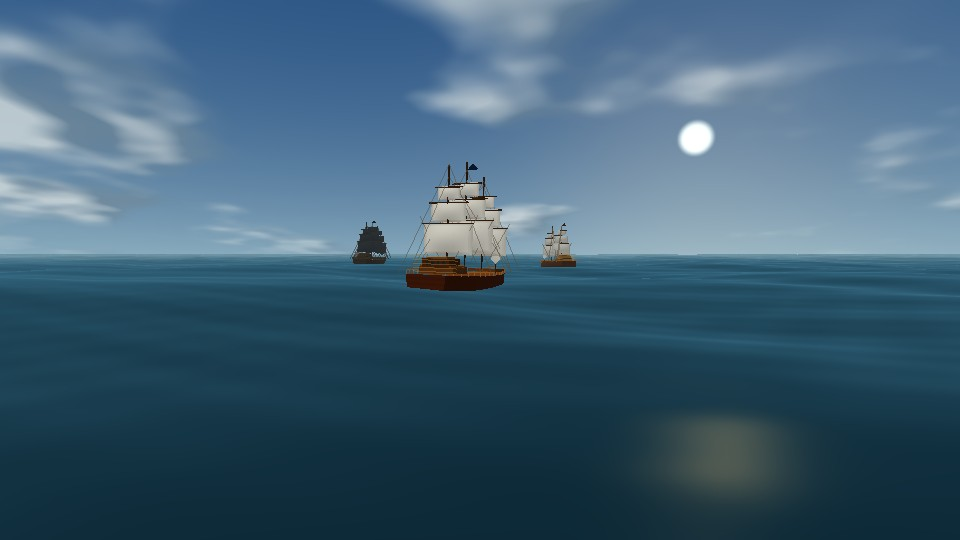
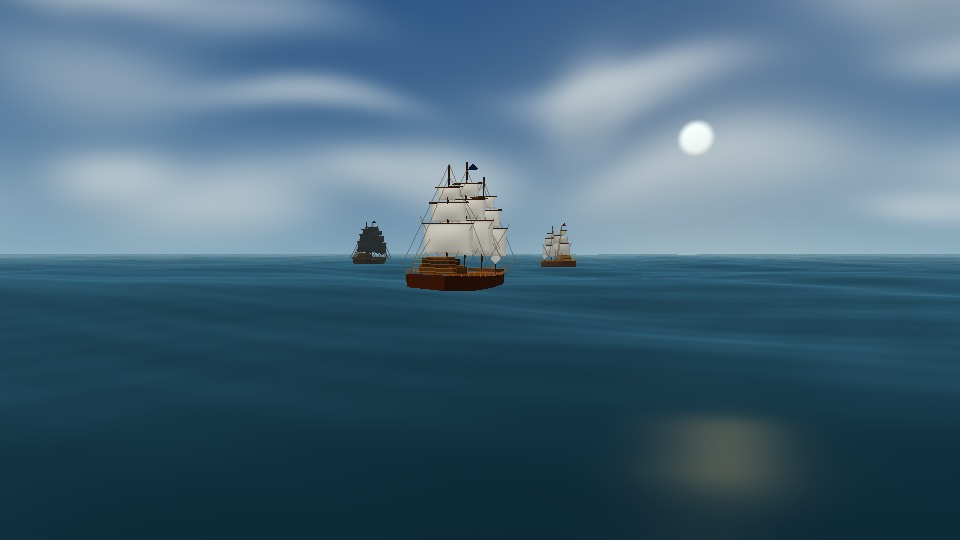
Restore sea exploration, soften smoky sky and use official Avito contact

Changed region(s): [[0.0, 0.0, 0.9062, 0.4741], [0.8125, 0.0, 1.0, 0.1778], [0.9062, 0.237, 1.0, 0.4148]]

diff --git a/themes/living-sea.js b/themes/living-sea.js
@@ -1,4 +1,4 @@
-import { createSeaMotion, shipHullGeometry, shipDeckGeometry, shipRailGeometry } from "./sea-motion.mjs";
+import { createSeaMotion, shipHullGeometry, shipDeckGeometry, shipRailGeometry } from "./sea-motion.mjs?v=20261005-sea12";
 
 const TAU=Math.PI*2;
 const clamp=(v,a=0,b=1)=>Math.max(a,Math.min(b,v));
@@ -28,15 +28,31 @@ function stateAt(time){
 }
 
 const SKY_VS=`#version 300 es
-in vec2 aPosition;out vec2 vUv;void main(){vUv=aPosition*.5+.5;gl_Position=vec4(aPosition,0.,1.);}
+layout(location=0)in vec2 aPosition;out highp vec2 vUv;void main(){vUv=aPosition*.5+.5;gl_Position=vec4(aPosition,0.,1.);}
 `;
 const SKY_FS=`#version 300 es
 precision highp float;
-in vec2 vUv;out vec4 outColor;
+in highp vec2 vUv;out vec4 outColor;
 uniform float uTime,uAspect,uDay,uSunset,uNight,uStorm,uFog,uLightning,uPitch,uYaw;
-float hash(vec2 p){p=fract(p*vec2(123.34,345.45));p+=dot(p,p+34.345);return fract(p.x*p.y);}
-float noise(vec2 p){vec2 i=floor(p),f=fract(p);f=f*f*f*(f*(f*6.-15.)+10.);return mix(mix(hash(i),hash(i+vec2(1,0)),f.x),mix(hash(i+vec2(0,1)),hash(i+1.),f.x),f.y);}
-float fbm(vec2 p){float v=0.,a=.53;mat2 r=mat2(.8,-.6,.6,.8);for(int i=0;i<4;i++){v+=a*noise(p);p=r*p*2.03+vec2(13.7,9.2);a*=.49;}return v;}
+// Continuous smoke puffs: no tessellated cloud mesh, hash cells or projected grid.
+// Analytic soft density also avoids mobile GPU noise precision artefacts.
+vec2 smoke(vec2 p){
+  p+=vec2(sin(p.y*11.+uTime*.017),cos(p.x*9.-uTime*.012))*.024;
+  float density=0.,shade=0.;
+  for(int i=0;i<22;i++){
+    float s=float(i)+1.;
+    vec2 center=vec2(sin(s*2.19)*.78,.13+(sin(s*.91)*.5+.5)*.31);
+    center.x+=sin(uTime*.014+s*.7)*.11;
+    center.y+=sin(uTime*.009+s)*.012;
+    vec2 radius=vec2(.07+(sin(s*.47)*.5+.5)*.12,.025+(cos(s*1.31)*.5+.5)*.050);
+    radius*=1.+uStorm*.48;
+    vec2 d=(p-center)/radius;
+    density+=exp(-dot(d,d)*1.6)*(.70+.26*sin(s*.73));
+    vec2 under=(p-center+vec2(.009,.035))/radius;
+    shade+=exp(-dot(under,under)*1.7)*.30;
+  }
+  return vec2(1.-exp(-density*(1.4+uStorm*1.8)),clamp(shade,0.,1.));
+}
 void main(){
   vec3 rd=normalize(vec3((vUv.x-.5)*uAspect+uYaw,(vUv.y-.5)+uPitch,-1.));
   float h=max(rd.y,0.),sunHeight=mix(.28,.045,uSunset);
@@ -52,22 +68,14 @@ void main(){
   col+=vec3(1.,.65,.31)*pow(sunDot,22.)*(.16+.32*uSunset)*(1.-uNight)*(1.-uStorm);
   col+=vec3(1.,.90,.69)*smoothstep(.9995,.99985,sunDot)*(1.-uNight)*(1.-uStorm)*.66;
 
-  // Project two wind-blown cloud layers onto the sky, with lit edges and shadowed thickness.
-  vec2 q=rd.xz/(max(rd.y,.025)+.15)*1.15;
-  q+=vec2(uTime*.010*(1.+uStorm),uTime*.002);
-  float shape=fbm(q),detail=fbm(q*2.1+vec2(17.1,3.7));
-  float density=smoothstep(mix(.51,.32,uStorm),mix(.73,.60,uStorm),shape*.83+detail*.17);
-  float upper=fbm(q+vec2(-.17,.10));
-  float edge=clamp((shape-upper)*5.+.45,.08,.94);
-  vec3 shade=mix(vec3(.45,.56,.64),vec3(.12,.16,.19),uStorm);
+  vec2 vapour=smoke(vec2(atan(rd.x,-rd.z),rd.y));
+  vec3 shade=mix(vec3(.50,.60,.67),vec3(.12,.16,.19),uStorm);
   vec3 lit=mix(vec3(.96,.97,.95),vec3(.49,.54,.56),uStorm);
   lit=mix(lit,vec3(1.,.69,.43),uSunset*.65);
-  vec3 cloud=mix(shade,lit,edge);
+  vec3 cloud=mix(lit,shade,vapour.y*.70);
   cloud*=mix(1.,.20,uNight);
   float aerial=smoothstep(.012,.14,h);
-  col=mix(col,cloud,density*aerial*mix(.72,.94,uStorm));
-  float cirrus=smoothstep(.64,.82,fbm(q*.55+vec2(2.3,-7.)))*smoothstep(.12,.65,h);
-  col=mix(col,lit,cirrus*.14*(1.-uStorm));
+  col=mix(col,cloud,vapour.x*aerial*mix(.78,.94,uStorm));
   col=mix(col,horizon,exp(-h*28.)*(.13+.52*uFog));
   col+=vec3(.82,.91,1.)*uLightning*.16;
   outColor=vec4(col,1.);
@@ -88,7 +96,7 @@ function oceanGeometry(cols=104,rows=180){
 const OCEAN_VS=`#version 300 es
 layout(location=0) in vec2 aPosition;
 uniform mat4 uViewProj;
-uniform float uTime,uCameraZ,uWave,uStorm;
+uniform float uTime,uCameraX,uCameraZ,uWave,uStorm;
 out vec3 vWorld,vNormal;
 void W(inout vec3 p,inout vec3 tx,inout vec3 tz,vec2 d,float amp,float freq,float speed,float steep){
   d=normalize(d);float ph=dot(d,p.xz)*freq+uTime*speed,a=amp*uWave;
@@ -98,7 +106,7 @@ void W(inout vec3 p,inout vec3 tx,inout vec3 tz,vec2 d,float amp,float freq,floa
   p+=vec3(d.x*steep*a*cos(ph),a*sin(ph),d.y*steep*a*cos(ph));
 }
 void main(){
-  vec3 p=vec3(aPosition.x,0.,aPosition.y+uCameraZ),tx=vec3(1,0,0),tz=vec3(0,0,1);
+  vec3 p=vec3(aPosition.x+uCameraX,0.,aPosition.y+uCameraZ),tx=vec3(1,0,0),tz=vec3(0,0,1);
   W(p,tx,tz,vec2(1.,.22),.78,.023,.62,.43);
   W(p,tx,tz,vec2(.31,1.),.48,.043,-.84,.31);
   W(p,tx,tz,vec2(-.72,.43),.30,.074,1.13,.23);
@@ -454,7 +462,7 @@ function atmosphere(){
   }));
 
   return{draw(ctx,time,w,h,c){
-    const horizon=h*.435;
+    const horizon=h*(c.horizon??.435);
 
     // Layered smoky clouds travel from the horizon toward the viewer.
     ctx.save();
@@ -550,7 +558,7 @@ function soundscape(){
 }
 
 function fallback(ctx){
-  const air=atmosphere();
+  const air=atmosphere(),motion=createSeaMotion();
   const color=(a,b,t)=>a.map((n,i)=>mix(n,b[i],t));
   const rgb=a=>`rgb(${a.map(n=>Math.round(n)).join(",")})`;
   const ships=[{x:.30,z:.045,s:.58},{x:.60,z:.018,s:.39},{x:.79,z:.075,s:.94}];
@@ -580,8 +588,9 @@ function fallback(ctx){
     ctx.fillStyle=c.night>.5?"#43566e":"#69494b";ctx.beginPath();ctx.moveTo(1,-175);ctx.quadraticCurveTo(15,-185,26,-177+Math.sin(t*3)*3);ctx.lineTo(3,-166);ctx.closePath();ctx.fill();ctx.restore();
   }
   return{resize(){},draw({time,width:w,height:h,camera}){
-    const c=stateAt(time),cy=clamp(camera?.y||0,-.55,.55),cx=camera?.x||0;
-    const horizon=h*(.435+cy*.055);
+    const c=stateAt(time),pose=motion.step(time,camera,c),cx=pose.input.x;
+    const elevation=Math.max(0,pose.eye[1]-6.2-(1.775+3.16*c.storm)*c.wave);
+    const horizon=h*(.435-Math.min(.17,elevation*.0018));
     const top=color(color([32,105,157],[7,15,33],c.night),[25,39,48],c.storm*.9);
     const edge=color(color(color([190,212,215],[32,46,63],c.night),[105,111,111],c.storm*.82),[225,149,96],c.sunset*.54);
     const sky=ctx.createLinearGradient(0,0,0,horizon);sky.addColorStop(0,rgb(top));sky.addColorStop(1,rgb(edge));ctx.fillStyle=sky;ctx.fillRect(0,0,w,h);
@@ -599,11 +608,14 @@ function fallback(ctx){
       ctx.lineTo(w+24,h+24);ctx.closePath();ctx.fill();
     }
     for(const [i,p] of ships.entries()){
-      const size=Math.min(w,h)*.00185*p.s,px=w*(p.x-cx*.035),py=horizon+h*p.z+Math.sin(time*.78+i)*(.7+c.storm*2.4);
+      const distance=[290,365,145][i]+pose.eye[2]-pose.routeZ;
+      if(distance<18)continue;
+      const zoom=([290,365,145][i]+18)/distance;
+      const size=Math.min(w,h)*.00185*p.s*zoom,px=w*(.5+(p.x-.5)*zoom-pose.eye[0]/distance*.8),py=horizon+h*p.z*zoom+elevation/distance*h*.7+Math.sin(time*.78+i)*(.7+c.storm*2.4);
       ship(px,py,size,time,c,i);
       const wake=ctx.createLinearGradient(0,py+size*18,0,py+size*48);wake.addColorStop(0,"rgba(30,83,99,0)");wake.addColorStop(1,rgb(color(distant,deep,.14)));ctx.fillStyle=wake;ctx.beginPath();ctx.ellipse(px,py+size*38,size*88,size*14,0,0,TAU);ctx.fill();
     }
-    air.draw(ctx,time,w,h,c);
+    air.draw(ctx,time,w,h,{...c,horizon:horizon/h});
   },dispose(){}};
 }
 
@@ -626,7 +638,7 @@ function createRenderer(ctx){
   const P=new Float32Array(16),V=new Float32Array(16),VP=new Float32Array(16);let W=1,H=1,dead=false;
   const su={time:gl.getUniformLocation(skyP,"uTime"),aspect:gl.getUniformLocation(skyP,"uAspect"),day:gl.getUniformLocation(skyP,"uDay"),sunset:gl.getUniformLocation(skyP,"uSunset"),night:gl.getUniformLocation(skyP,"uNight"),storm:gl.getUniformLocation(skyP,"uStorm"),fog:gl.getUniformLocation(skyP,"uFog"),lightning:gl.getUniformLocation(skyP,"uLightning"),pitch:gl.getUniformLocation(skyP,"uPitch"),yaw:gl.getUniformLocation(skyP,"uYaw")};
   const uu=Object.fromEntries(["time","aspect","depth","night","storm"].map(k=>[k,gl.getUniformLocation(underP,"u"+k[0].toUpperCase()+k.slice(1))]));
-  const ou={vp:gl.getUniformLocation(oceanP,"uViewProj"),time:gl.getUniformLocation(oceanP,"uTime"),cameraZ:gl.getUniformLocation(oceanP,"uCameraZ"),wave:gl.getUniformLocation(oceanP,"uWave"),camera:gl.getUniformLocation(oceanP,"uCamera"),day:gl.getUniformLocation(oceanP,"uDay"),sunset:gl.getUniformLocation(oceanP,"uSunset"),night:gl.getUniformLocation(oceanP,"uNight"),storm:gl.getUniformLocation(oceanP,"uStorm"),fog:gl.getUniformLocation(oceanP,"uFog"),lightning:gl.getUniformLocation(oceanP,"uLightning")};
+  const ou={vp:gl.getUniformLocation(oceanP,"uViewProj"),time:gl.getUniformLocation(oceanP,"uTime"),cameraX:gl.getUniformLocation(oceanP,"uCameraX"),cameraZ:gl.getUniformLocation(oceanP,"uCameraZ"),wave:gl.getUniformLocation(oceanP,"uWave"),camera:gl.getUniformLocation(oceanP,"uCamera"),day:gl.getUniformLocation(oceanP,"uDay"),sunset:gl.getUniformLocation(oceanP,"uSunset"),night:gl.getUniformLocation(oceanP,"uNight"),storm:gl.getUniformLocation(oceanP,"uStorm"),fog:gl.getUniformLocation(oceanP,"uFog"),lightning:gl.getUniformLocation(oceanP,"uLightning")};
   const ju={vp:gl.getUniformLocation(objP,"uViewProj"),offset:gl.getUniformLocation(objP,"uOffset"),scale:gl.getUniformLocation(objP,"uScale"),rotation:gl.getUniformLocation(objP,"uRotation"),color:gl.getUniformLocation(objP,"uColor"),camera:gl.getUniformLocation(objP,"uCamera"),fogColor:gl.getUniformLocation(objP,"uFogColor"),night:gl.getUniformLocation(objP,"uNight"),storm:gl.getUniformLocation(objP,"uStorm"),fog:gl.getUniformLocation(objP,"uFog")};
   const au={vp:gl.getUniformLocation(sailP,"uViewProj"),offset:gl.getUniformLocation(sailP,"uOffset"),scale:gl.getUniformLocation(sailP,"uScale"),rotation:gl.getUniformLocation(sailP,"uRotation"),color:gl.getUniformLocation(sailP,"uColor"),camera:gl.getUniformLocation(sailP,"uCamera"),fogColor:gl.getUniformLocation(sailP,"uFogColor"),night:gl.getUniformLocation(sailP,"uNight"),storm:gl.getUniformLocation(sailP,"uStorm"),fog:gl.getUniformLocation(sailP,"uFog"),time:gl.getUniformLocation(sailP,"uTime"),wind:gl.getUniformLocation(sailP,"uWind"),phase:gl.getUniformLocation(sailP,"uPhase")};
   const lu={vp:gl.getUniformLocation(threadP,"uViewProj"),offset:gl.getUniformLocation(threadP,"uOffset"),scale:gl.getUniformLocation(threadP,"uScale"),rotation:gl.getUniformLocation(threadP,"uRotation"),color:gl.getUniformLocation(threadP,"uColor"),alpha:gl.getUniformLocation(threadP,"uAlpha"),night:gl.getUniformLocation(threadP,"uNight"),storm:gl.getUniformLocation(threadP,"uStorm"),fog:gl.getUniformLocation(threadP,"uFog"),time:gl.getUniformLocation(threadP,"uTime"),wind:gl.getUniformLocation(threadP,"uWind"),phase:gl.getUniformLocation(threadP,"uPhase"),flutter:gl.getUniformLocation(threadP,"uFlutter")};
@@ -735,15 +747,15 @@ function createRenderer(ctx){
 
   const motion=createSeaMotion();
   function render(t,camera,c){
-    const pose=motion.step(t,camera,c),{eye,target,camZ}=pose;
+    const pose=motion.step(t,camera,c),{eye,target,camZ,routeZ}=pose;
     const cx=pose.input.x;
     perspective(P,.94,W/H,.35,1700);lookAt(V,eye,target,[0,1,0]);multiply(VP,P,V);
-    gl.disable(gl.BLEND);gl.disable(gl.CULL_FACE);gl.disable(gl.DEPTH_TEST);gl.useProgram(skyP);gl.bindVertexArray(skyVao);gl.uniform1f(su.time,t);gl.uniform1f(su.aspect,W/H);setC(su,c);gl.uniform1f(su.pitch,(eye[1]-target[1])/Math.max(1,eye[2]-target[2]));gl.uniform1f(su.yaw,cx*.012);gl.drawArrays(gl.TRIANGLES,0,3);
-    gl.enable(gl.DEPTH_TEST);gl.clearDepth(1);gl.clear(gl.DEPTH_BUFFER_BIT);gl.useProgram(oceanP);gl.bindVertexArray(oceanVao);gl.uniformMatrix4fv(ou.vp,false,VP);gl.uniform1f(ou.time,t);gl.uniform1f(ou.cameraZ,camZ);gl.uniform1f(ou.wave,c.wave);gl.uniform3f(ou.camera,...eye);setC(ou,c);gl.drawElements(gl.TRIANGLES,ocean.indices.length,gl.UNSIGNED_INT,0);
-    const fog=[mix(.73,.22,c.storm),mix(.81,.27,c.storm),mix(.82,.28,c.storm)];fog[0]=mix(fog[0],.09,c.night);fog[1]=mix(fog[1],.13,c.night);fog[2]=mix(fog[2],.19,c.night);gl.enable(gl.CULL_FACE);ship(0,t,camZ,eye,fog,c);ship(1,t,camZ,eye,fog,c);ship(2,t,camZ,eye,fog,c);gl.disable(gl.CULL_FACE);
+    gl.disable(gl.BLEND);gl.disable(gl.CULL_FACE);gl.disable(gl.DEPTH_TEST);gl.useProgram(skyP);gl.bindVertexArray(skyVao);gl.uniform1f(su.time,t);gl.uniform1f(su.aspect,W/H);setC(su,c);gl.uniform1f(su.pitch,(eye[1]-target[1])/Math.max(1,eye[2]-target[2]));gl.uniform1f(su.yaw,(target[0]-eye[0])/148);gl.drawArrays(gl.TRIANGLES,0,3);
+    gl.enable(gl.DEPTH_TEST);gl.clearDepth(1);gl.clear(gl.DEPTH_BUFFER_BIT);gl.useProgram(oceanP);gl.bindVertexArray(oceanVao);gl.uniformMatrix4fv(ou.vp,false,VP);gl.uniform1f(ou.time,t);gl.uniform1f(ou.cameraX,eye[0]);gl.uniform1f(ou.cameraZ,camZ);gl.uniform1f(ou.wave,c.wave);gl.uniform3f(ou.camera,...eye);setC(ou,c);gl.drawElements(gl.TRIANGLES,ocean.indices.length,gl.UNSIGNED_INT,0);
+    const fog=[mix(.73,.22,c.storm),mix(.81,.27,c.storm),mix(.82,.28,c.storm)];fog[0]=mix(fog[0],.09,c.night);fog[1]=mix(fog[1],.13,c.night);fog[2]=mix(fog[2],.19,c.night);gl.enable(gl.CULL_FACE);ship(0,t,routeZ,eye,fog,c);ship(1,t,routeZ,eye,fog,c);ship(2,t,routeZ,eye,fog,c);gl.disable(gl.CULL_FACE);
     gl.bindVertexArray(null);
   }
   return{resize,draw({time,width,height,camera}){if(dead)return;if(width!==W||height!==H)resize({width,height,ratio:devicePixelRatio||1});const c=stateAt(time);render(time,camera,c);fx.draw(ctx,time,width,height,{...c,proceduralSky:true});sound.setWeather(c,time)},dispose(){dead=true;canvas.remove();style.remove();sound.dispose();try{for(const p of[skyP,oceanP,objP,sailP,threadP,underP])gl.deleteProgram(p);for(const r of R){if(typeof WebGLVertexArrayObject!=="undefined"&&r instanceof WebGLVertexArrayObject)gl.deleteVertexArray(r);else gl.deleteBuffer(r)}}catch{}}}
 }
 
-export default{id:"living-sea",renderer:"webgl-living-sea-v9",particles:false,marks:true,flightCards:true,autoFlightCards:true,continuousDepth:true,cameraSmoothing:2.6,gesturePanScale:480,depthDirectScale:.16,depthGain:.18,depthCap:.28,depthDamping:5,flightBounds:{x:1.2,y:.55,z:1.8},accent:"#bcdde5",dim:"#c7d9dd",surface:"12,27,38",panel:{bg:"rgba(14,35,47,.54)",border:"rgba(190,224,230,.26)",glow:"rgba(83,174,194,.17)",text:"#f2fbfc",muted:"#c6dce0"},radius:"28px",buttonRadius:"28px",heading:'"Cormorant Garamond", Georgia, serif',body:'"Nunito", system-ui, sans-serif',colors:["#d9eff2","#8fc1ce","#f1c48d","#9eb6c6"],backgrounds:["radial-gradient(ellipse at 72% 18%,rgba(180,220,228,.24),transparent 45%),radial-gradient(ellipse at 28% 8%,rgba(73,124,153,.26),transparent 58%)","radial-gradient(ellipse at 60% 35%,rgba(134,182,193,.12),transparent 55%)","linear-gradient(to bottom,rgba(41,83,105,.14),rgba(6,19,28,.44))"],soundscape:SOUND,createRenderer};
+export default{id:"living-sea",renderer:"webgl-living-sea-v12",particles:false,marks:true,flightCards:true,autoFlightCards:true,continuousDepth:true,cameraSmoothing:4.2,gesturePanScale:360,depthDirectScale:.65,depthGain:.44,depthCap:1.5,depthDamping:4,flightBounds:{x:60,y:10,z:60},accent:"#bcdde5",dim:"#c7d9dd",surface:"12,27,38",panel:{bg:"rgba(14,35,47,.54)",border:"rgba(190,224,230,.26)",glow:"rgba(83,174,194,.17)",text:"#f2fbfc",muted:"#c6dce0"},radius:"28px",buttonRadius:"28px",heading:'"Cormorant Garamond", Georgia, serif',body:'"Nunito", system-ui, sans-serif',colors:["#d9eff2","#8fc1ce","#f1c48d","#9eb6c6"],backgrounds:["radial-gradient(ellipse at 72% 18%,rgba(180,220,228,.24),transparent 45%),radial-gradient(ellipse at 28% 8%,rgba(73,124,153,.26),transparent 58%)","radial-gradient(ellipse at 60% 35%,rgba(134,182,193,.12),transparent 55%)","linear-gradient(to bottom,rgba(41,83,105,.14),rgba(6,19,28,.44))"],soundscape:SOUND,createRenderer};

diff --git a/app.js b/app.js
@@ -13,13 +13,13 @@ import {
   moodFor,
   formatDate,
 } from "./utils.js";
-import { ThemeEngine } from "./themes.js?v=20261005-sea11";
+import { ThemeEngine } from "./themes.js?v=20261005-sea12";
 import { Player } from "./player.js";
 import { API } from "./api.js";
 import { lessons } from "./content.js";
 import { Studio } from "./studio.js";
 import { renderFeed, feedEditor } from "./feed.js";
-import { setupDiscovery } from "./discovery.js?v=20261005-sea11";
+import { setupDiscovery } from "./discovery.js?v=20261005-sea12";
 import { SceneAudio } from "./scene-audio.js";
 document.querySelector(".skip-link").onclick = (e) => {
   e.preventDefault();
@@ -717,7 +717,7 @@ function join() {
     el(
       "p",
       "",
-      "Сайт партнёра размещается отдельно — на его домене и в его аккаунте хостинга. Публикации и медиа контролирует владелец сайта. Syolana поставляет иммерсивный слой и помогает с первоначальной технической настройкой. Подготовлены два режима: публичная лента собственного сообщества VK либо Partner Studio в аккаунте партнёра в Яндекс Cloud. Редактор без VK готов к пилотной установке; коммерческую доступность подтвердим после проверки облачной настройки. Клиенты связываются непосредственно с партнёром через его Авито, VK или почту.",
+      "Ваш сайт работает на вашем домене и в вашем аккаунте хостинга. Вы управляете публикациями и медиа; Syolana подключает темы, плеер и инструменты погружения. При подключении выбираем источник записей: ваше публичное сообщество VK либо редактор Partner Studio на вашей инфраструктуре. Объём настройки, цена, сроки и контакты для ваших клиентов согласуются в заказе на Авито. Демонстрационный сайт и редактор можно попробовать бесплатно.",
     ),
     el(
       "p",
@@ -1284,7 +1284,7 @@ function contactPage() {
     link("Открыть профиль Syolana", businessContact(), "text-link"),
     link("Написать на Авито", businessContact(), "btn primary"),
   );
-  $("page").append(card, el("p", "notice", "Переход открывает внешнюю площадку Авито. На этом сайте нет формы оплаты и автоматических списаний."));
+  $("page").append(card, el("p", "notice", "Заказы, поддержка и согласование оплаты — только в официальном профиле Syolana на Авито: avito.ru/brands/i223140984. Мы не просим переводить переписку в другие мессенджеры. Не оплачивайте заказы по сообщениям от других аккаунтов. На этом сайте нет формы оплаты и автоматических списаний. Способ оплаты зависит от правил и доступных функций Авито для конкретного объявления."));
 }
 
 function terms() {
@@ -1318,7 +1318,7 @@ function terms() {
     el(
       "p",
       "",
-      "Syolana стремится собирать только данные, необходимые для работы выбранных функций. В браузере сохраняются настройки темы, плеера и место чтения. Для редактора, чата и платных функций состав данных будет отдельно описан в политике обработки данных до их коммерческого запуска.",
+      "На основном сайте в браузере сохраняются настройки темы, плеера, место чтения и учебный прогресс. Связь с Syolana и согласование оплаты происходят в официальном профиле на Авито. Партнёр управляет данными собственного сайта и редактора; доступ к его аккаунтам и порядок выгрузки согласуются отдельно.",
     ),
     el("h3", "", "Контакт"),
     link("Написать на Авито", businessContact(), "text-link"),
@@ -1334,7 +1334,7 @@ function offerPage() {
     el(
       "p",
       "notice",
-      "Это описание планируемых услуг, а не завершённая оферта для приёма оплаты. Продажи через сайт закрыты. Перед запуском будут опубликованы реальные сведения о владельце сайта и исполнителе, действующая оферта, состав услуги, цены, сроки доступа, правила возвратов и прекращения подписки. Одного раскрытия реквизитов внутри оплаты недостаточно для выполнения всех обязанностей владельца сайта.",
+      "Сайт Syolana — пространство для чтения, самостоятельной языковой практики, музыки, живых тем и знакомства с проектом. Здесь нет оформления заказа, приёма оплаты или автоматических списаний. Конкретные материалы, услуги и цены указываются в объявлениях официального профиля Syolana на Авито. Заказ и условия оплаты обсуждаются только в переписке с этим профилем по правилам площадки. Эти условия описывают использование сайта и не заменяют индивидуальный договор по заказу.",
     ),
     el("h3", "", "Что предоставляет Syolana"),
     el(
@@ -1376,7 +1376,7 @@ function offerPage() {
     el(
       "p",
       "",
-      "Syolana проектирует Partner Studio с минимизацией данных и первичной российской инфраструктурой. До запуска Studio и платных функций публичная политика будет приведена в полное соответствие с фактической архитектурой.",
+      "Основной сайт не содержит форм заказа или оплаты. Демонстрационный редактор сохраняет записи в этом браузере. Обработка обращений на Авито и локальные настройки описаны на странице конфиденциальности. Владелец реального партнёрского сайта определяет правила обработки данных на своей инфраструктуре.",
     ),
     el("h3", "", "Контакт"),
     link("Написать на Авито", businessContact(), "text-link"),
@@ -1391,7 +1391,7 @@ function privacyPage() {
     el(
       "p",
       "notice",
-      "Это информация о тестовой версии; полная политика с реальными данными оператора ещё требует заполнения. До включения серверных форм, регистрации и оплаты необходимо опубликовать политику, определить основания и сроки обработки, настроить российскую инфраструктуру и выполнить применимые обязанности по уведомлению Роскомнадзора. Электронная переписка тоже может содержать персональные данные.",
+      "Здесь описаны локальные настройки, сетевые запросы сайта и обращения в официальном профиле Syolana на Авито. На основном сайте нет формы заказа и приёма оплаты. Электронная переписка также может содержать персональные данные. Полные сведения о владельце и операторе обработки на сайте не указаны; эта страница не заменяет обязанность их раскрытия.",
     ),
     el("h3", "", "Что происходит сейчас"),
     el(
@@ -1405,11 +1405,11 @@ function privacyPage() {
       "",
       "При переходе на Авито вы используете внешнюю площадку по её правилам и политике данных. Информация, которую вы сообщаете в переписке, используется для ответа и согласования заказа. Эта страница не собирает текст обращения через собственную форму. Юридические заявления могут поступать по адресу, указанному в правовой информации.",
     ),
-    el("h3", "", "Partner Studio и будущий Inbox"),
+    el("h3", "", "Демонстрационный Partner Studio"),
     el(
       "p",
       "",
-      "До коммерческого запуска этих функций первичное хранение данных и аутентификация будут настроены в российской инфраструктуре, а публичная политика будет обновлена до начала такой обработки.",
+      "Редактор демонстрационного партнёра сохраняет созданные вами записи в локальном хранилище этого браузера. Эти записи не отправляются на сервер и не появляются у других посетителей. Реальный партнёр управляет своим редактором и данными на собственной инфраструктуре; его правила обработки данных указываются на его сайте.",
     ),
     el("h3", "", "Контакт"),
     link("Написать на Авито", businessContact(), "text-link"),
@@ -1424,7 +1424,7 @@ function legalInfo() {
     el(
       "p",
       "notice",
-      "Тестовая версия. Онлайн-оплата закрыта. Полные сведения о владельце сайта и исполнителе ещё не опубликованы, поэтому коммерческая готовность не подтверждена. Эта страница не заменяет обязательные реквизиты, оферту и политику с реальными данными.",
+      "Syolana — название проекта. Этот сайт предоставляет материалы и демонстрирует его возможности; он не принимает платежи. Заказы, общение и согласование оплаты проходят только в официальном профиле Syolana на Авито. Сведения и условия конкретного исполнителя сообщаются покупателю до заключения договора. Полные обязательные сведения о фактическом владельце сайта здесь не указаны.",
     ),
     el("h3", "", "Сейчас доступны"),
     link("Единые условия Syolana", "#/offer", "text-link"),
@@ -1434,11 +1434,11 @@ function legalInfo() {
     link("Связаться на Авито", businessContact(), "text-link"),
     el("h3", "", "Юридические заявления о нарушении прав"),
     el("p", "", "Адрес для заявлений, предусмотренных статьёй 15.7 149-ФЗ: syolana@yandex.ru. Для обсуждения услуг и обычной поддержки используйте Авито."),
-    el("h3", "", "До включения оплаты"),
+    el("h3", "", "Владелец сайта и исполнитель заказа"),
     el(
       "p",
       "",
-      "Требуются предусмотренные законом сведения о фактическом владельце сайта и исполнителе, контакт для обращений; реквизиты продавца для договора и чека; состав, цена, сроки, возвраты и действующие условия; политика обработки данных. Модель с юридическим лицом или реальным издателем оформляется отдельно. Перенос переписки и оплаты на Авито не заменяет обязанности владельца сайта и продавца. Личные реквизиты автора не публикуются автоматически: коммерческий запуск требует сначала определить законную модель.",
+      "Владелец сайта и исполнитель заказа обязаны предоставлять сведения в объёме, установленном законом. Перенос переписки и оплаты на Авито не отменяет эти обязанности. Цена, состав результата, сроки, доступ и порядок возврата согласуются до оплаты; обязательные права потребителя сохраняются. При расчётах с плательщиком НПД покупателю передаётся чек «Мой налог». Подтверждение профиля на Авито не заменяет сведения в договоре и чеке.",
     ),
   );
   $("page").append(box);

diff --git a/index.html b/index.html
@@ -37,7 +37,7 @@
       type="font/woff"
       crossorigin
     />
-    <link rel="stylesheet" href="styles.css?v=20261005-sea11" />
+    <link rel="stylesheet" href="styles.css?v=20261005-sea12" />
     <link rel="stylesheet" href="assets/fonts/fonts.css" />
   </head>
   <body>
@@ -97,7 +97,7 @@
           Домен, хостинг и материалы принадлежат владельцу партнёрского сайта.
           Syolana подключает оформление, темы, плеер и инструменты погружения.
           Вопросы по правам и публикациям можно направить через
-          <a href="#/report">форму обращения</a>.
+          <a href="#/report">страницу обращений</a>.
         </p>
       </details>
       <nav id="main-nav" class="main-nav" aria-label="Разделы Syolana">
@@ -111,6 +111,12 @@
       </main>
       <footer id="footer">
         <a href="#/">Syolana</a><span>© Syolana. Все права защищены.</span>
+        <p class="notice">
+          Заказы, общение и согласование оплаты — только через
+          <a href="https://www.avito.ru/brands/i223140984" rel="noopener noreferrer">официальный профиль Syolana на Авито</a>.
+          Сайт не принимает платежи. Не переводите деньги по ссылкам от других профилей
+          и не переносите переписку в сторонние мессенджеры.
+        </p>
         <div>
           <a href="https://www.avito.ru/brands/i223140984" rel="noopener noreferrer">Написать на Авито</a
           ><a href="#/offer">Единые условия</a><a href="#/legal">Правовая информация</a
@@ -226,6 +232,6 @@
         <a href="https://www.avito.ru/brands/i223140984">Связаться с Syolana на Авито</a>.
       </p></noscript
     >
-    <script type="module" src="boot.js?v=20261005-sea11"></script>
+    <script type="module" src="boot.js?v=20261005-sea12"></script>
   </body>
 </html>

diff --git a/themes.js b/themes.js
@@ -90,7 +90,7 @@ export class ThemeEngine {
     if (!item) return;
     const url = new URL(item.module, this.themeBase || new URL("./themes/", import.meta.url));
     if (url.origin !== (this.themeBase || url).origin) throw Error("Invalid theme");
-    const version = new URL(import.meta.url).searchParams.get("v") || "20261005-sea9";
+    const version = new URL(import.meta.url).searchParams.get("v") || "20261005-sea12";
     if (version) url.searchParams.set("v", version);
     const { default: theme } = await import(url.href);
     if (seq !== this.sequence) return;
@@ -625,10 +625,15 @@ export class ThemeEngine {
       : 2.8;
     cam.vz *= Math.exp(-d * depthDamping);
     if (Math.abs(cam.vz) < 0.002) cam.vz = 0;
+    const bounds=this.theme?.flightBounds;
+    if(bounds){
+      for(const [key,target] of [['x','tx'],['y','ty'],['z','tz']]){
+        if(Number.isFinite(bounds[key]))cam[target]=Math.max(-bounds[key],Math.min(bounds[key],cam[target]));
+      }
+    }
     cam.x += (cam.tx - cam.x) * blend;
     cam.y += (cam.ty - cam.y) * blend;
     cam.z += (cam.tz - cam.z) * blend;
-    const bounds=this.theme?.flightBounds;
     if(bounds){
       if(Number.isFinite(bounds.x))cam.x=Math.max(-bounds.x,Math.min(bounds.x,cam.x));
       if(Number.isFinite(bounds.y))cam.y=Math.max(-bounds.y,Math.min(bounds.y,cam.y));
@@ -693,7 +698,7 @@ export class ThemeEngine {
         if (id === "living-sea") {
           if (!this.seaPreview) {
             this.seaPreview = new Image();
-            this.seaPreview.src = new URL("previews/living-sea.jpg?v=20261005-sea9", this.themeBase).href;
+            this.seaPreview.src = new URL("previews/living-sea.jpg?v=20261005-sea12", this.themeBase).href;
           }
           const poster = this.seaPreview;
           if (poster.complete && poster.naturalWidth) {

diff --git a/flight.js b/flight.js
@@ -1,10 +1,10 @@
 import { el, link } from "./utils.js";
 
 export const FLIGHT_HINT =
-  "Перемещайтесь в пространстве с помощью мыши или жестов";
+  "Свайп — в стороны и вверх · два пальца — вперёд и назад";
 
 export const PLATFORM_FLIGHT_OFFERS = [
-  ["Ваш сайт, ваша атмосфера", "Попробовать Syolana · 7 дней бесплатно", "#/join"],
+  ["Ваш сайт, ваша атмосфера", "Обсудить свой сайт на Авито", "https://www.avito.ru/brands/i223140984"],
   ["Поживите внутри истории", "Открыть иммерсивную библиотеку", "#/library"],
   ["Немного английского каждый день", "Открыть A1 · бесплатно для всех", "#/languages/en"],
   ["Пусть ваша история зазвучит", "Послушать песни Syolana", "#/songs"],

diff --git a/boot.js b/boot.js
@@ -1,5 +1,5 @@
 // Show a recoverable error if an upload is incomplete; never leave an endless loader.
-const release = new URL(import.meta.url).searchParams.get("v") || "20261005-sea11";
+const release = new URL(import.meta.url).searchParams.get("v") || "20261005-sea12";
 const appURL = new URL("./app.js", import.meta.url);
 appURL.searchParams.set("v", release);
 import(appURL.href).catch((error) => {
